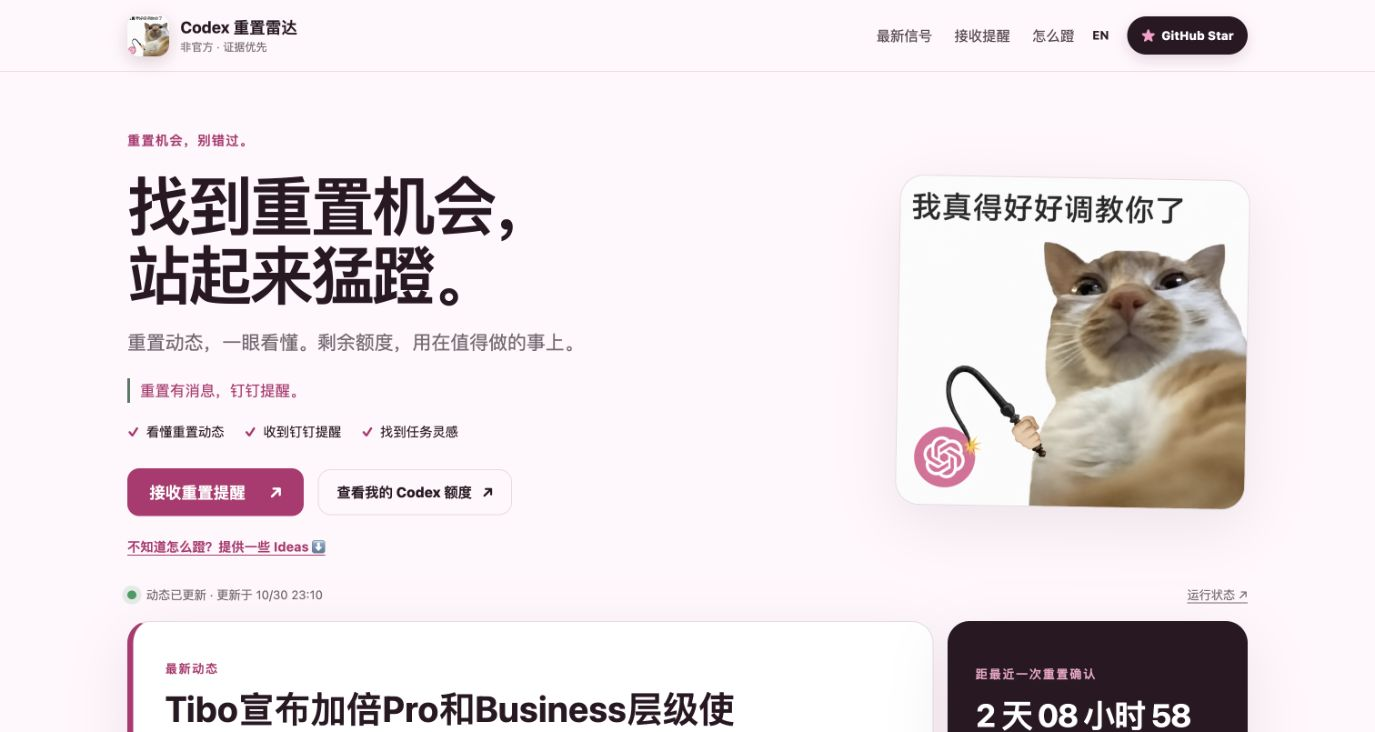
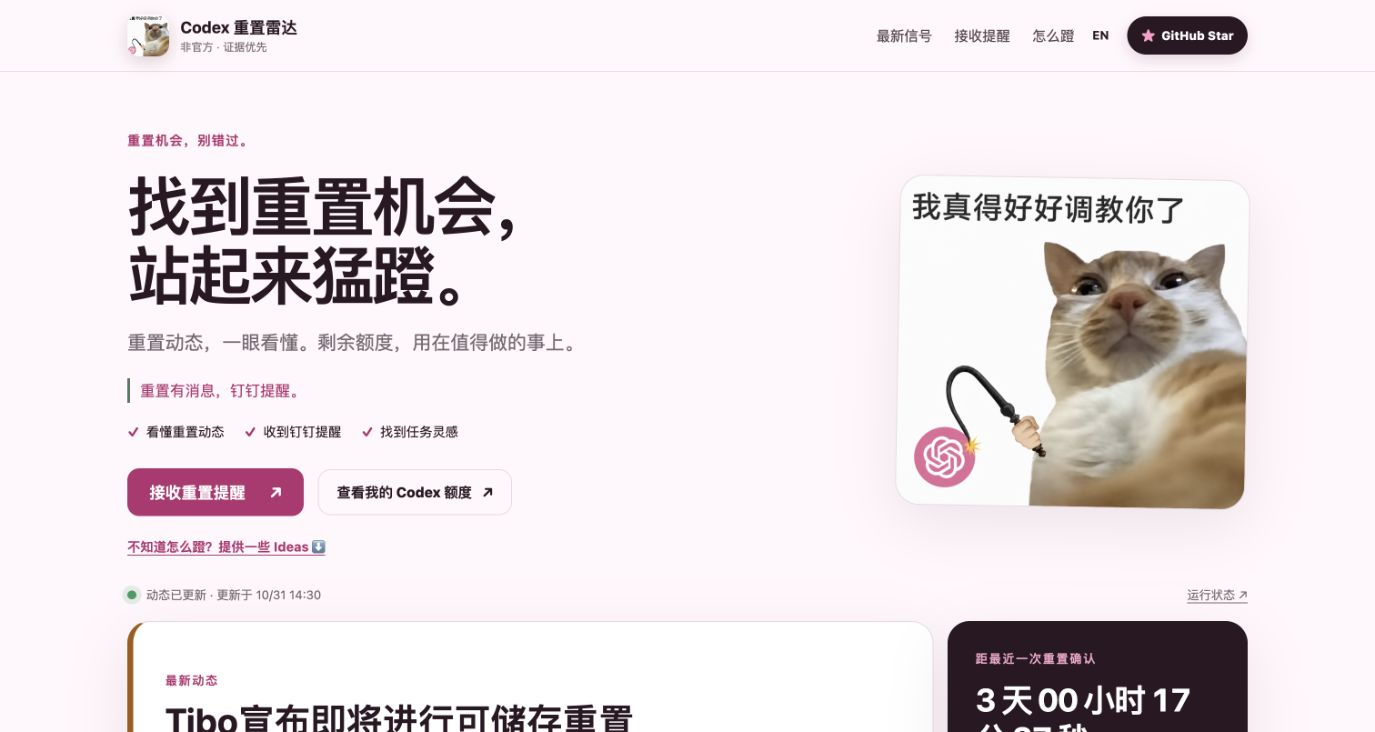
Show desktop product screenshots and historical validation evidence

Changed region(s): [[0.0916, 0.8415, 0.5498, 1.0], [0.7025, 0.8716, 0.8858, 1.0], [0.2138, 0.8115, 0.2444, 0.8415]]

diff --git a/public/showcase/index.html b/public/showcase/index.html
@@ -2,8 +2,8 @@
 <header><a href="../">← 打开重置雷达</a><span>作品介绍 · 2026.10</span><a href="https://github.com/farmcan/codex-reset-watcher">GitHub ↗</a></header>
 <main><div class="cover"><div><span class="kicker">CODEX RESET WATCHER</span><h1>看重置，收提醒。<br>把额度用在值得做的事上。</h1><p>把分散的公开动态整理成预告与完成确认。有新消息收到提醒，不知道做什么时，也有任务 Ideas 可选。</p><div class="actions"><a class="button" href="../">体验作品 ↗</a><a class="button secondary" href="#architecture">看技术方案 ↓</a></div></div><img src="../brand-zh.png" alt="Codex 重置雷达中文小猫形象" width="220" height="207"></div>
 <div class="features"><article><h3>分清预告与确认</h3><p>把公告和后续完成回复放在一起，时间与原帖都能回看。</p></article><article><h3>有消息来提醒</h3><p>通过钉钉接收新动态，也可使用你自己的 RSS 阅读器。</p></article><article><h3>下一步有事可做</h3><p>从代码维护、调研与开源贡献中，选一个能验收的任务。</p></article></div>
-<section><span class="kicker">真实页面 · 亮点展示</span><h2>从知道消息，到开始行动。</h2><div class="gallery"><figure><a href="home-desktop.jpg"><img src="home-desktop.jpg" alt="新版首页：能力与行动入口"></a><figcaption>01 · 首屏只讲能力：看动态、接收提醒、找任务。 <a class="image-original" href="home-desktop.jpg">查看原图 ↗</a></figcaption></figure><figure><a href="reset-evidence.jpg"><img src="reset-evidence.jpg" alt="真实10月重置证据与时间"></a><figcaption>02 · 预告与完成确认分开，原文和时间可追溯。 <a class="image-original" href="reset-evidence.jpg">查看原图 ↗</a></figcaption></figure><figure><a href="ideas.jpg"><img src="ideas.jpg" alt="有产物的Token maxxing任务Ideas"></a><figcaption>03 · 不只盯着额度：找到有明确产物的任务 Ideas。 <a class="image-original" href="ideas.jpg">查看原图 ↗</a></figcaption></figure><figure class="phone-shot"><a href="home-mobile.jpg"><img src="home-mobile.jpg?v=20261031-pink" alt="中文手机页面截图"></a><figcaption>04 · 手机可看，无需交出个人 Codex 登录。 <a class="image-original" href="home-mobile.jpg">查看原图 ↗</a></figcaption></figure></div></section>
+<section><span class="kicker">真实页面 · 亮点展示</span><h2>从知道消息，到开始行动。</h2><div class="gallery"><figure><a href="home-desktop.jpg?v=20261031-desktop"><img src="home-desktop.jpg?v=20261031-desktop" alt="新版首页：能力与行动入口"></a><figcaption>01 · 首屏只讲能力：看动态、接收提醒、找任务。 <a class="image-original" href="home-desktop.jpg?v=20261031-desktop">查看原图 ↗</a></figcaption></figure><figure><a href="reset-evidence.jpg"><img src="reset-evidence.jpg" alt="真实10月重置证据与时间"></a><figcaption>02 · 预告与完成确认分开，原文和时间可追溯。 <a class="image-original" href="reset-evidence.jpg">查看原图 ↗</a></figcaption></figure><figure><a href="ideas.jpg"><img src="ideas.jpg" alt="有产物的Token maxxing任务Ideas"></a><figcaption>03 · 不只盯着额度：找到有明确产物的任务 Ideas。 <a class="image-original" href="ideas.jpg">查看原图 ↗</a></figcaption></figure><figure class="phone-shot"><a href="home-mobile.jpg"><img src="home-mobile.jpg?v=20261031-pink" alt="中文手机页面截图"></a><figcaption>04 · 手机可看，无需交出个人 Codex 登录。 <a class="image-original" href="home-mobile.jpg">查看原图 ↗</a></figcaption></figure></div></section>
 <section id="architecture"><span class="kicker">当前已部署 · 技术简介</span><h2>一条能核验的消息链路。</h2><p>公开信息进入 Cloudflare，规则与 AI 复核消息含义，D1 留下证据与投递记录，最终呈现在网页、RSS 和钉钉。</p><a href="architecture.html"><img class="architecture" src="architecture.svg?v=20261031-pink" alt="当前部署架构：X信息经Worker、Qwen与D1，提供网页RSS及钉钉提醒"></a><a class="image-original architecture-open" href="architecture.html">放大查看架构图 ↗</a><p class="quiet">手机可在大图中左右滑动查看，也可打开 SVG 缩放。</p><div class="tech"><article><h3>识别层</h3><p>规则筛选，AI 做原文语义复核；沿真实引用关系核验后续确认。</p></article><article><h3>证据层</h3><p>D1 保存原帖、事件和投递状态。确认公告时间与精确执行时刻分开。</p></article><article><h3>交付层</h3><p>网页、RSS 与钉钉各有明确入口；发送去重，保留异常与未知状态。</p></article></div><p class="quiet">图中只展示当前部署。Dot → Codex 自动开工尚未启用；公开确认不能证明每个账号同步到账。</p><details class="source-notes"><summary>架构图与表达参考</summary><p>原创 SVG 参考 <a href="https://c4model.com/diagrams/container">C4 容器图</a>的系统边界、职责与通信标注，以及 <a href="https://openai.com/index/unrolling-the-codex-agent-loop/">OpenAI 工程博客</a>的简洁流程表达。未复制原图，也不表示本项目使用了同一 Codex 架构。</p></details></section>
-<section><span class="kicker">24 秒作品速览</span><h2>看一遍，了解怎么用。</h2><video class="video" controls playsinline preload="metadata" poster="home-desktop.jpg"><source src="demo.mp4?v=20261031-pink" type="video/mp4"></video><p class="quiet">由真实页面截图与架构图组成的介绍短片，无音频；不是自动任务执行录屏。</p></section>
-<section><h2>素材下载</h2><div class="media-links"><a href="home-desktop.jpg" download>首页截图 JPG</a><a href="reset-evidence.jpg" download>时间证据 JPG</a><a href="ideas.jpg" download>任务 Ideas JPG</a><a href="home-mobile.jpg" download>手机截图 JPG</a><a href="architecture.svg" download>矢量架构图 SVG</a><a href="architecture.jpg" download>架构图 JPG</a><a href="demo.mp4" download>24 秒介绍 MP4</a></div><p class="quiet">页面截图采集于2026-10-30至10-31，架构图更新于2026-10-31。所有画面来自真实产品，不展示私人账号数据。比赛拉票帖单独准备，投票入口尚待补充。</p></section>
+<section><span class="kicker">24 秒作品速览</span><h2>看一遍，了解怎么用。</h2><video class="video" controls playsinline preload="metadata" poster="home-desktop.jpg?v=20261031-desktop"><source src="demo.mp4?v=20261031-desktop" type="video/mp4"></video><p class="quiet">由真实页面截图与架构图组成的介绍短片，无音频；不是自动任务执行录屏。</p></section>
+<section><h2>素材下载</h2><div class="media-links"><a href="home-desktop.jpg?v=20261031-desktop" download>首页截图 JPG</a><a href="reset-evidence.jpg" download>时间证据 JPG</a><a href="ideas.jpg" download>任务 Ideas JPG</a><a href="home-mobile.jpg" download>手机截图 JPG</a><a href="architecture.svg" download>矢量架构图 SVG</a><a href="architecture.jpg" download>架构图 JPG</a><a href="demo.mp4" download>24 秒介绍 MP4</a></div><p class="quiet">页面截图采集于2026-10-30至10-31，架构图更新于2026-10-31。所有画面来自真实产品，不展示私人账号数据。比赛拉票帖单独准备，投票入口尚待补充。</p></section>
 </main><footer>Codex 重置雷达 · MIT 开源 · 非官方项目，与 OpenAI、Cloudflare、X 或钉钉无隶属关系。</footer></body></html>

diff --git a/docs/blog-codex-reset-watcher.md b/docs/blog-codex-reset-watcher.md
@@ -10,7 +10,19 @@
 
 **预告、完成公告、个人到账是三件事。** 原文没给精确执行时刻，就标“未公布”；公开确认也不能证明每个账号同时到账。个人额度以 [Codex Usage](https://chatgpt.com/codex/settings/usage) 为准。
 
-![手机首页：快捷目录与重置动态](https://codex-reset-watcher.weican16hit.workers.dev/showcase/home-mobile.jpg?v=20261031-pink)
+![桌面首页：重置动态、提醒与任务入口](https://codex-reset-watcher.weican16hit.workers.dev/showcase/home-desktop.jpg?v=20261031-desktop)
+
+## 判断有没有依据？看历史与原帖
+
+[早期固定审计](https://github.com/farmcan/codex-reset-watcher/blob/main/docs/historical-audit.md)回看截至 9 月 6 日的 12 轮事件：12 轮有一手公告或确认，11 轮有提前线索，其中 8 轮预告清楚。**这是事后样本审计，不是在线预测准确率。**
+
+再看当前账本复核后的 **10 月 28 日（北京时间）**：
+
+- [10:42：今天重置](https://x.com/thsottiaux/status/2115273064481218829) → 预告。
+- [10:43：午夜 PST 前](https://x.com/thsottiaux/status/2115273253711409208) → 补充时间范围。
+- [14:29：And it’s done](https://x.com/thsottiaux/status/2115330127886463244) → 完成确认。
+
+三帖沿真实回复关系串联，可逐条核对；14:29 是公告发布时间，精确执行和个人到账时刻仍未公布。另有[10 月近期确认记录](https://github.com/farmcan/codex-reset-watcher/blob/main/docs/recent-reset-audit.md)，与早期样本分开呈现。
 
 ## 有新消息，钉钉提醒
 
